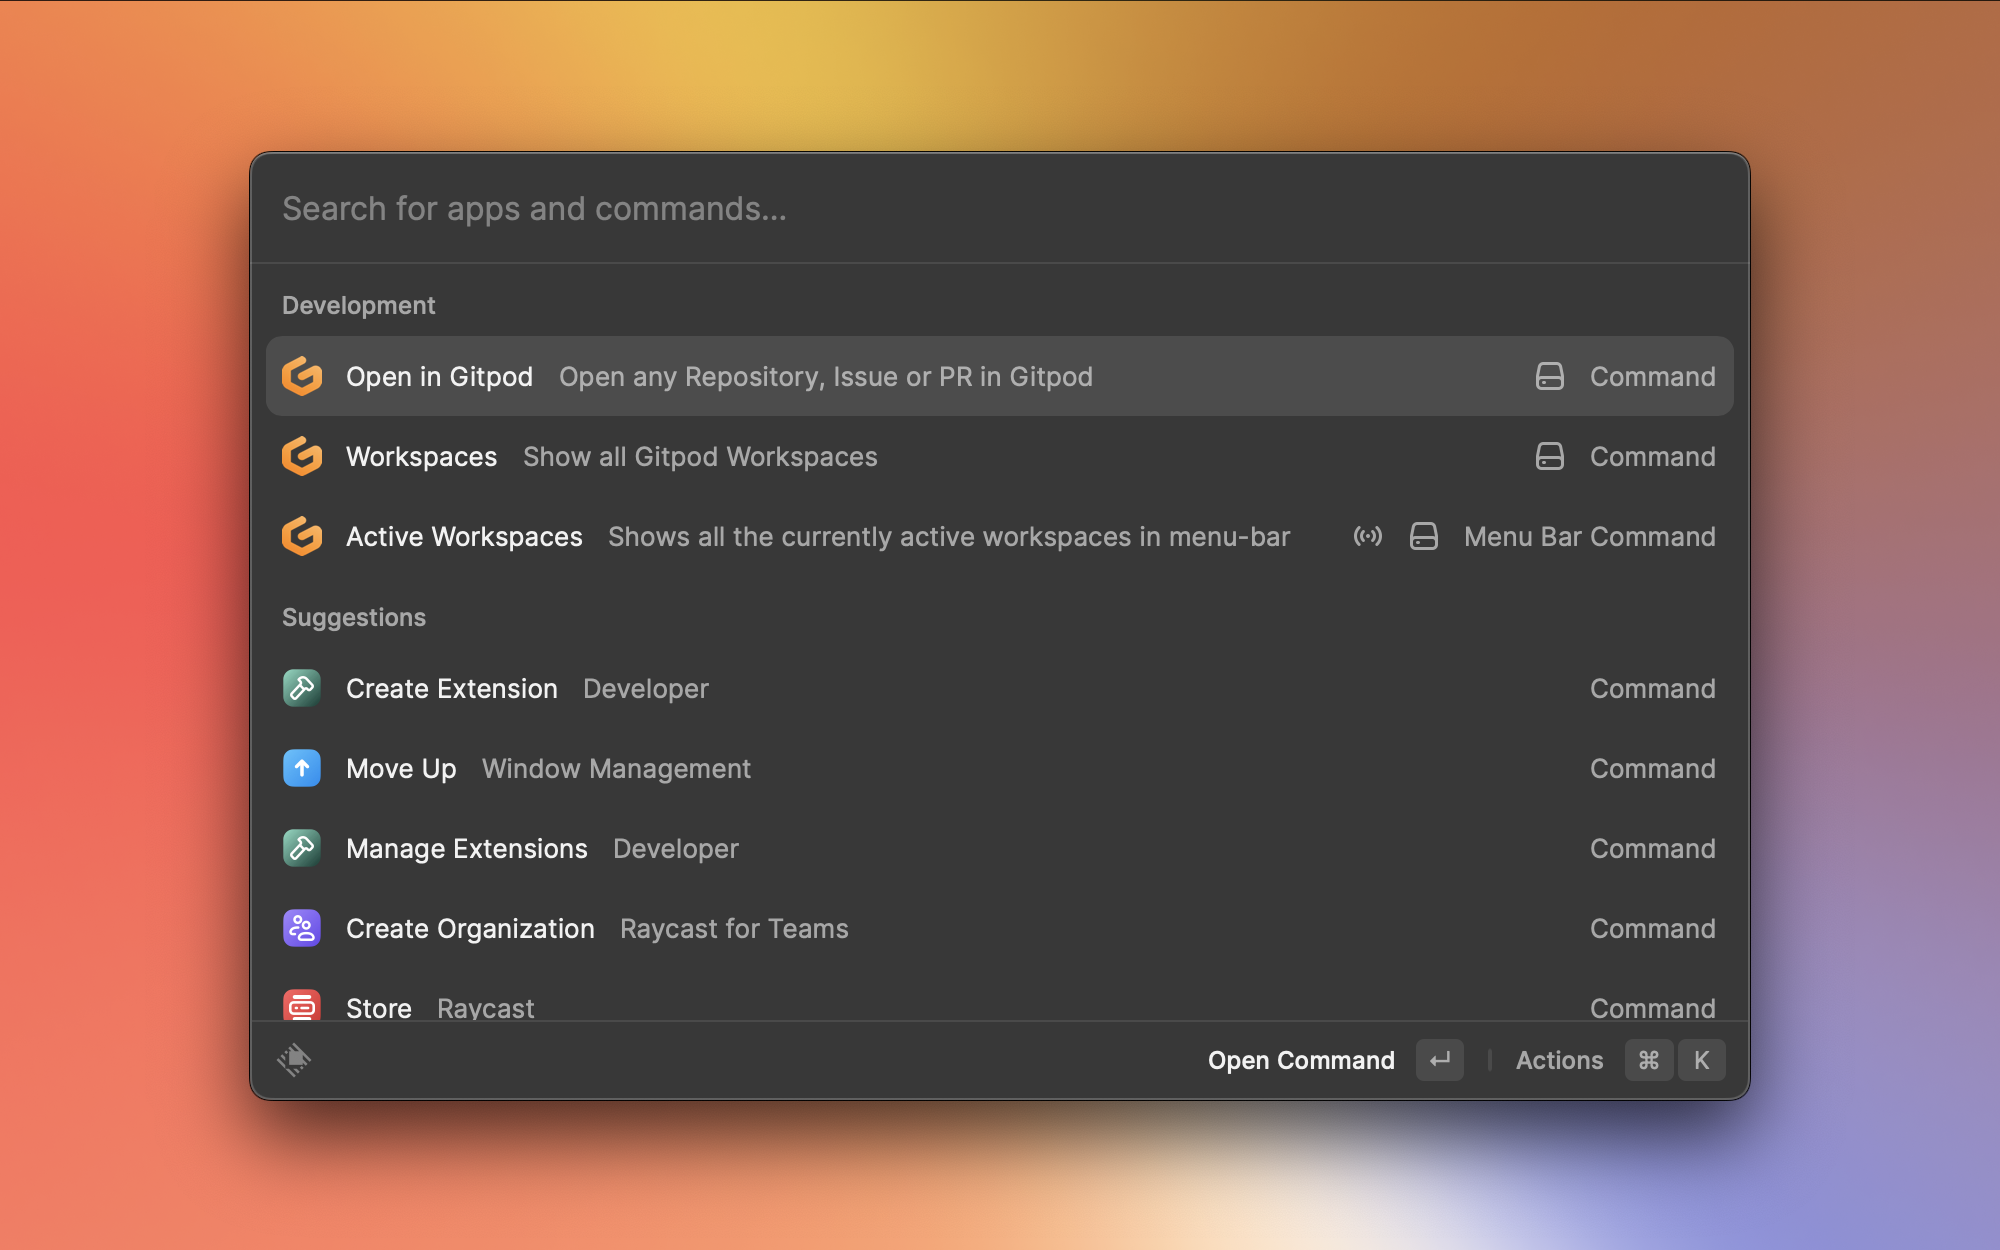
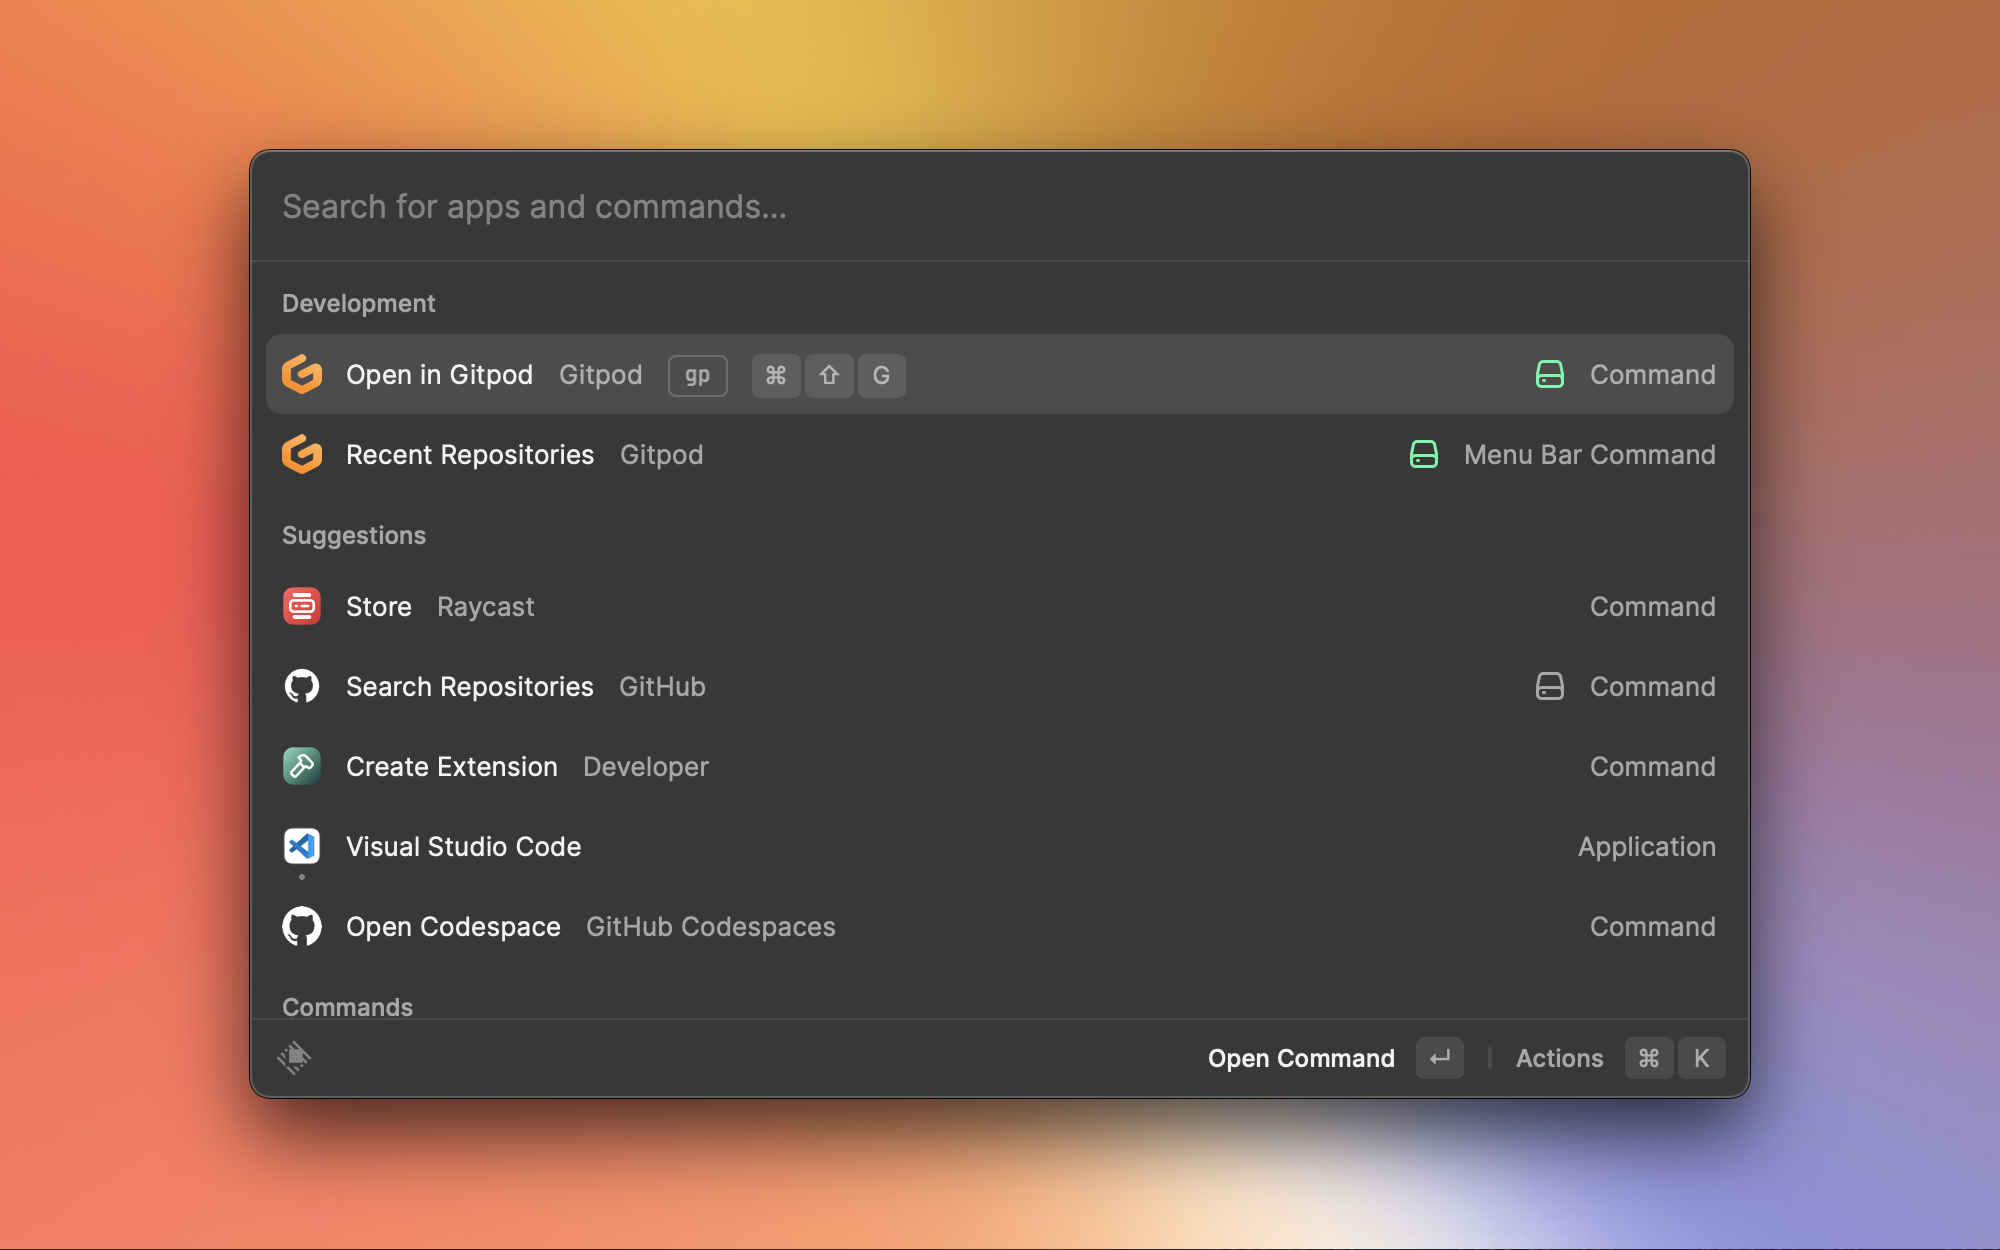
updated readme to include current features

diff --git a/README.md b/README.md
@@ -1,31 +1,47 @@
-# Gitpod-Raycast Extension
-
 ![GitpodRaycast](https://user-images.githubusercontent.com/72302948/212153237-df8ea15e-c50f-4ab2-9694-d6671abe568f.png)
 
-A Raycast extension for Gitpod to support _BLAGINGLY FAST_ Gitpod Workflow 🍊
+# Raycast Extension for Gitpod 
 
-![ Gitpod Commands for Raycast ](/metadata/Raycast%202023-01-04%20at%2022.29.01.png)
+A _BLAZINGLY FAST_ way to work with Gitpod 🍊
 
-# Features
+![ Gitpod Commands for Raycast ](/metadata/Commands.png)
 
-1. Quickly manage workspaces that are running, stopped and failed!
+### Installation
 
-![Workspaces](/metadata/gitpod%202023-01-04%20at%2022.34.37.png)
+1. Install Raycast to get started if you haven't 😉
+2. Navigate to the Raycast Store to Download the `Gitpod` extension
 
-2. Experience the power of Gitpod Contexts!
+### Currently Supported Features
 
+1. "Open in Gitpod" -> Experience the power of Gitpod Contexts!
    1. Find the repository from Github (you can even see if the repo is Gitpodified...it glows up ✨)
-      ![RepoSearch](/metadata/gitpod%202023-01-04%20at%2022.34.37.png)
+   
+      ![RepoSearch](/metadata/RepoCatelog.png)
    2. You can now see and find all the branches, PRs and Issues which you can directly open in Gitpod with a single Keypress!
-      ![ContextView](/metadata/1.png)
-   PS: You can filter using tags like /b for filtering branch, /p for PRs and /i for issues and /me for anything and everything related to you!
+   
+      ![ContextView](/metadata/OpenBranchPRIssue.png)
+   
+   You can filter and search further using the following tags
+      - `/b` for branch
+      - `/p` for PRs 
+      - `/i` for Issues
+      - `/me` for anything and everything related to 
+         - eg. `/me /p` would refer to your Pull Requests in a particular repository!
 
-3. Faster Access of Recent Workspaces from menubar
-   ![menubar](metadata/Screenshot%202023-01-04%20at%2010.48.40%20PM.png)
+   ![FilterView](/metadata/FilterBranchPRIssue.png)
 
-4. Coming Soon....
-   1. Manage Prebuilds
-   2. Setting default ide
-   3. Quicker access to personal branches, PRs and Issues
-   4. Teams and Projects Support
-   5. And much more....
+   3. Open using "CMD + Enter" to open the selected Branch, PR or Issue directly on Gitpod
+
+2. "Recent Repositories" -> Faster Access of Recent Workspaces from menubar
+   
+3. By default you can see the latest visited Repository to start with! 
+
+
+### WIP
+
+- [ ] Manage All Workspaces within Gitpod 
+- [ ] Teams and Projects Support
+- [ ] Manage Prebuilds withing Raycast
+- [ ] Add support for GitLab and Bitbucker
+- [ ] Default ide support
+- [ ] And much more....
